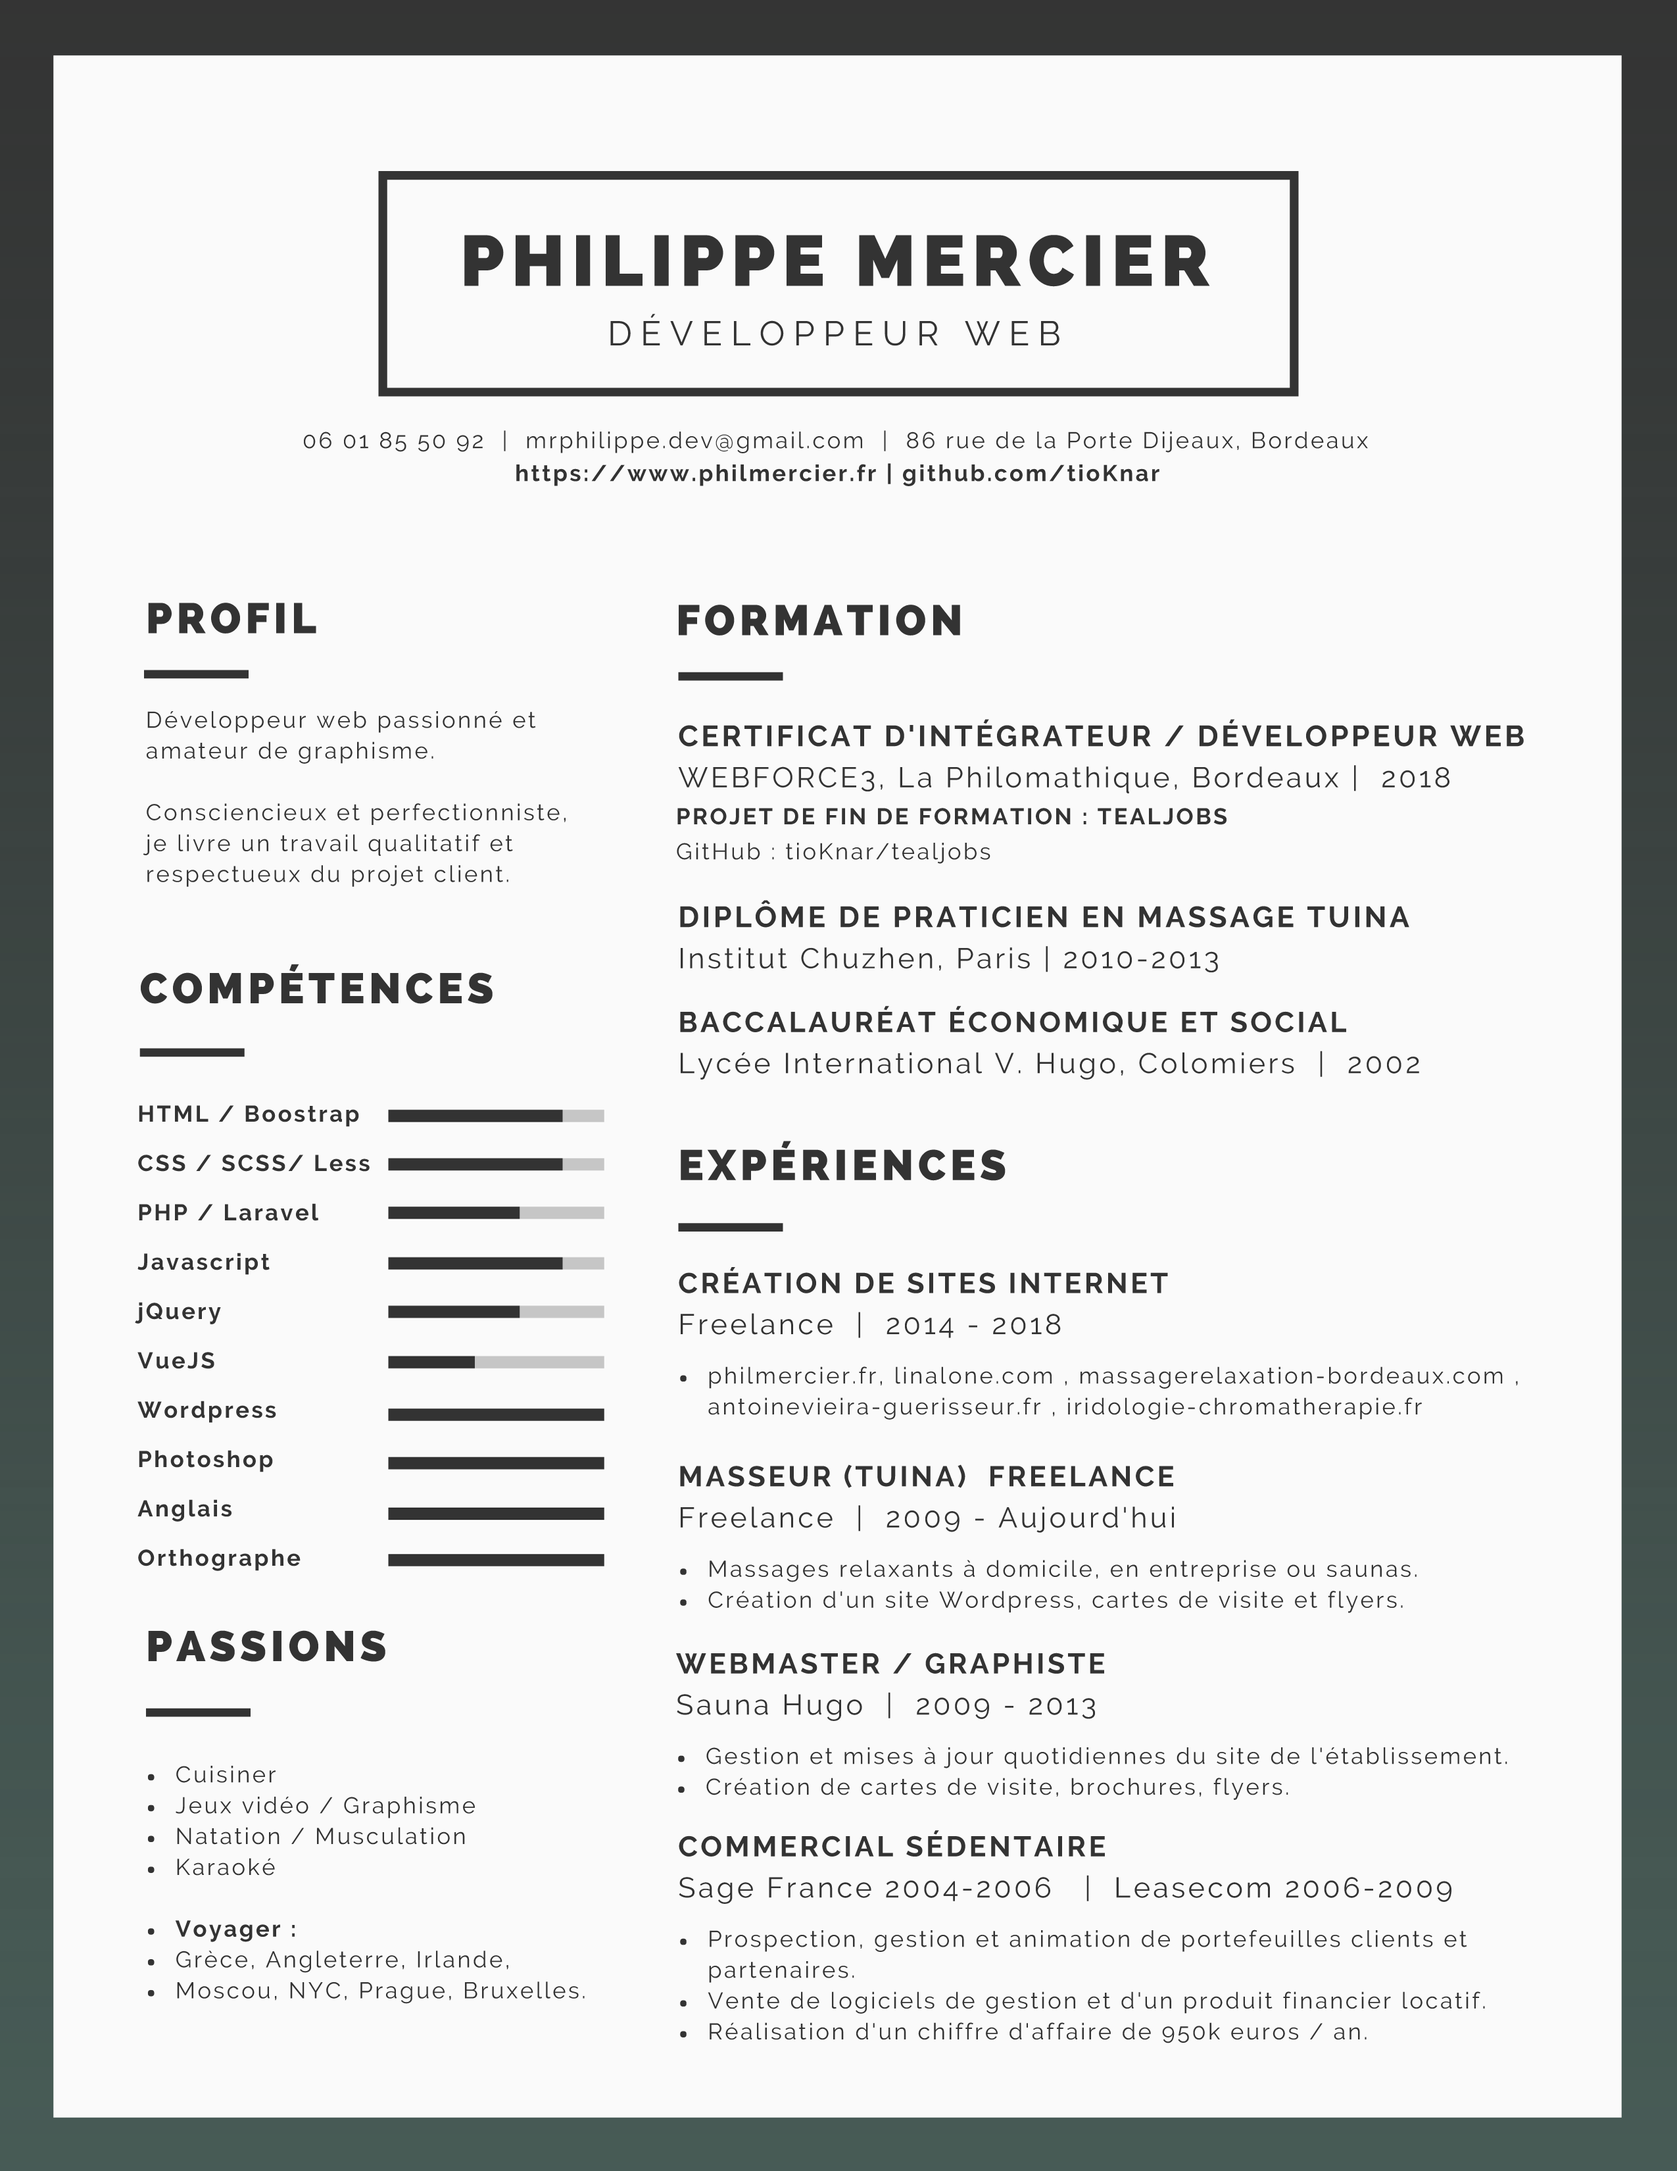
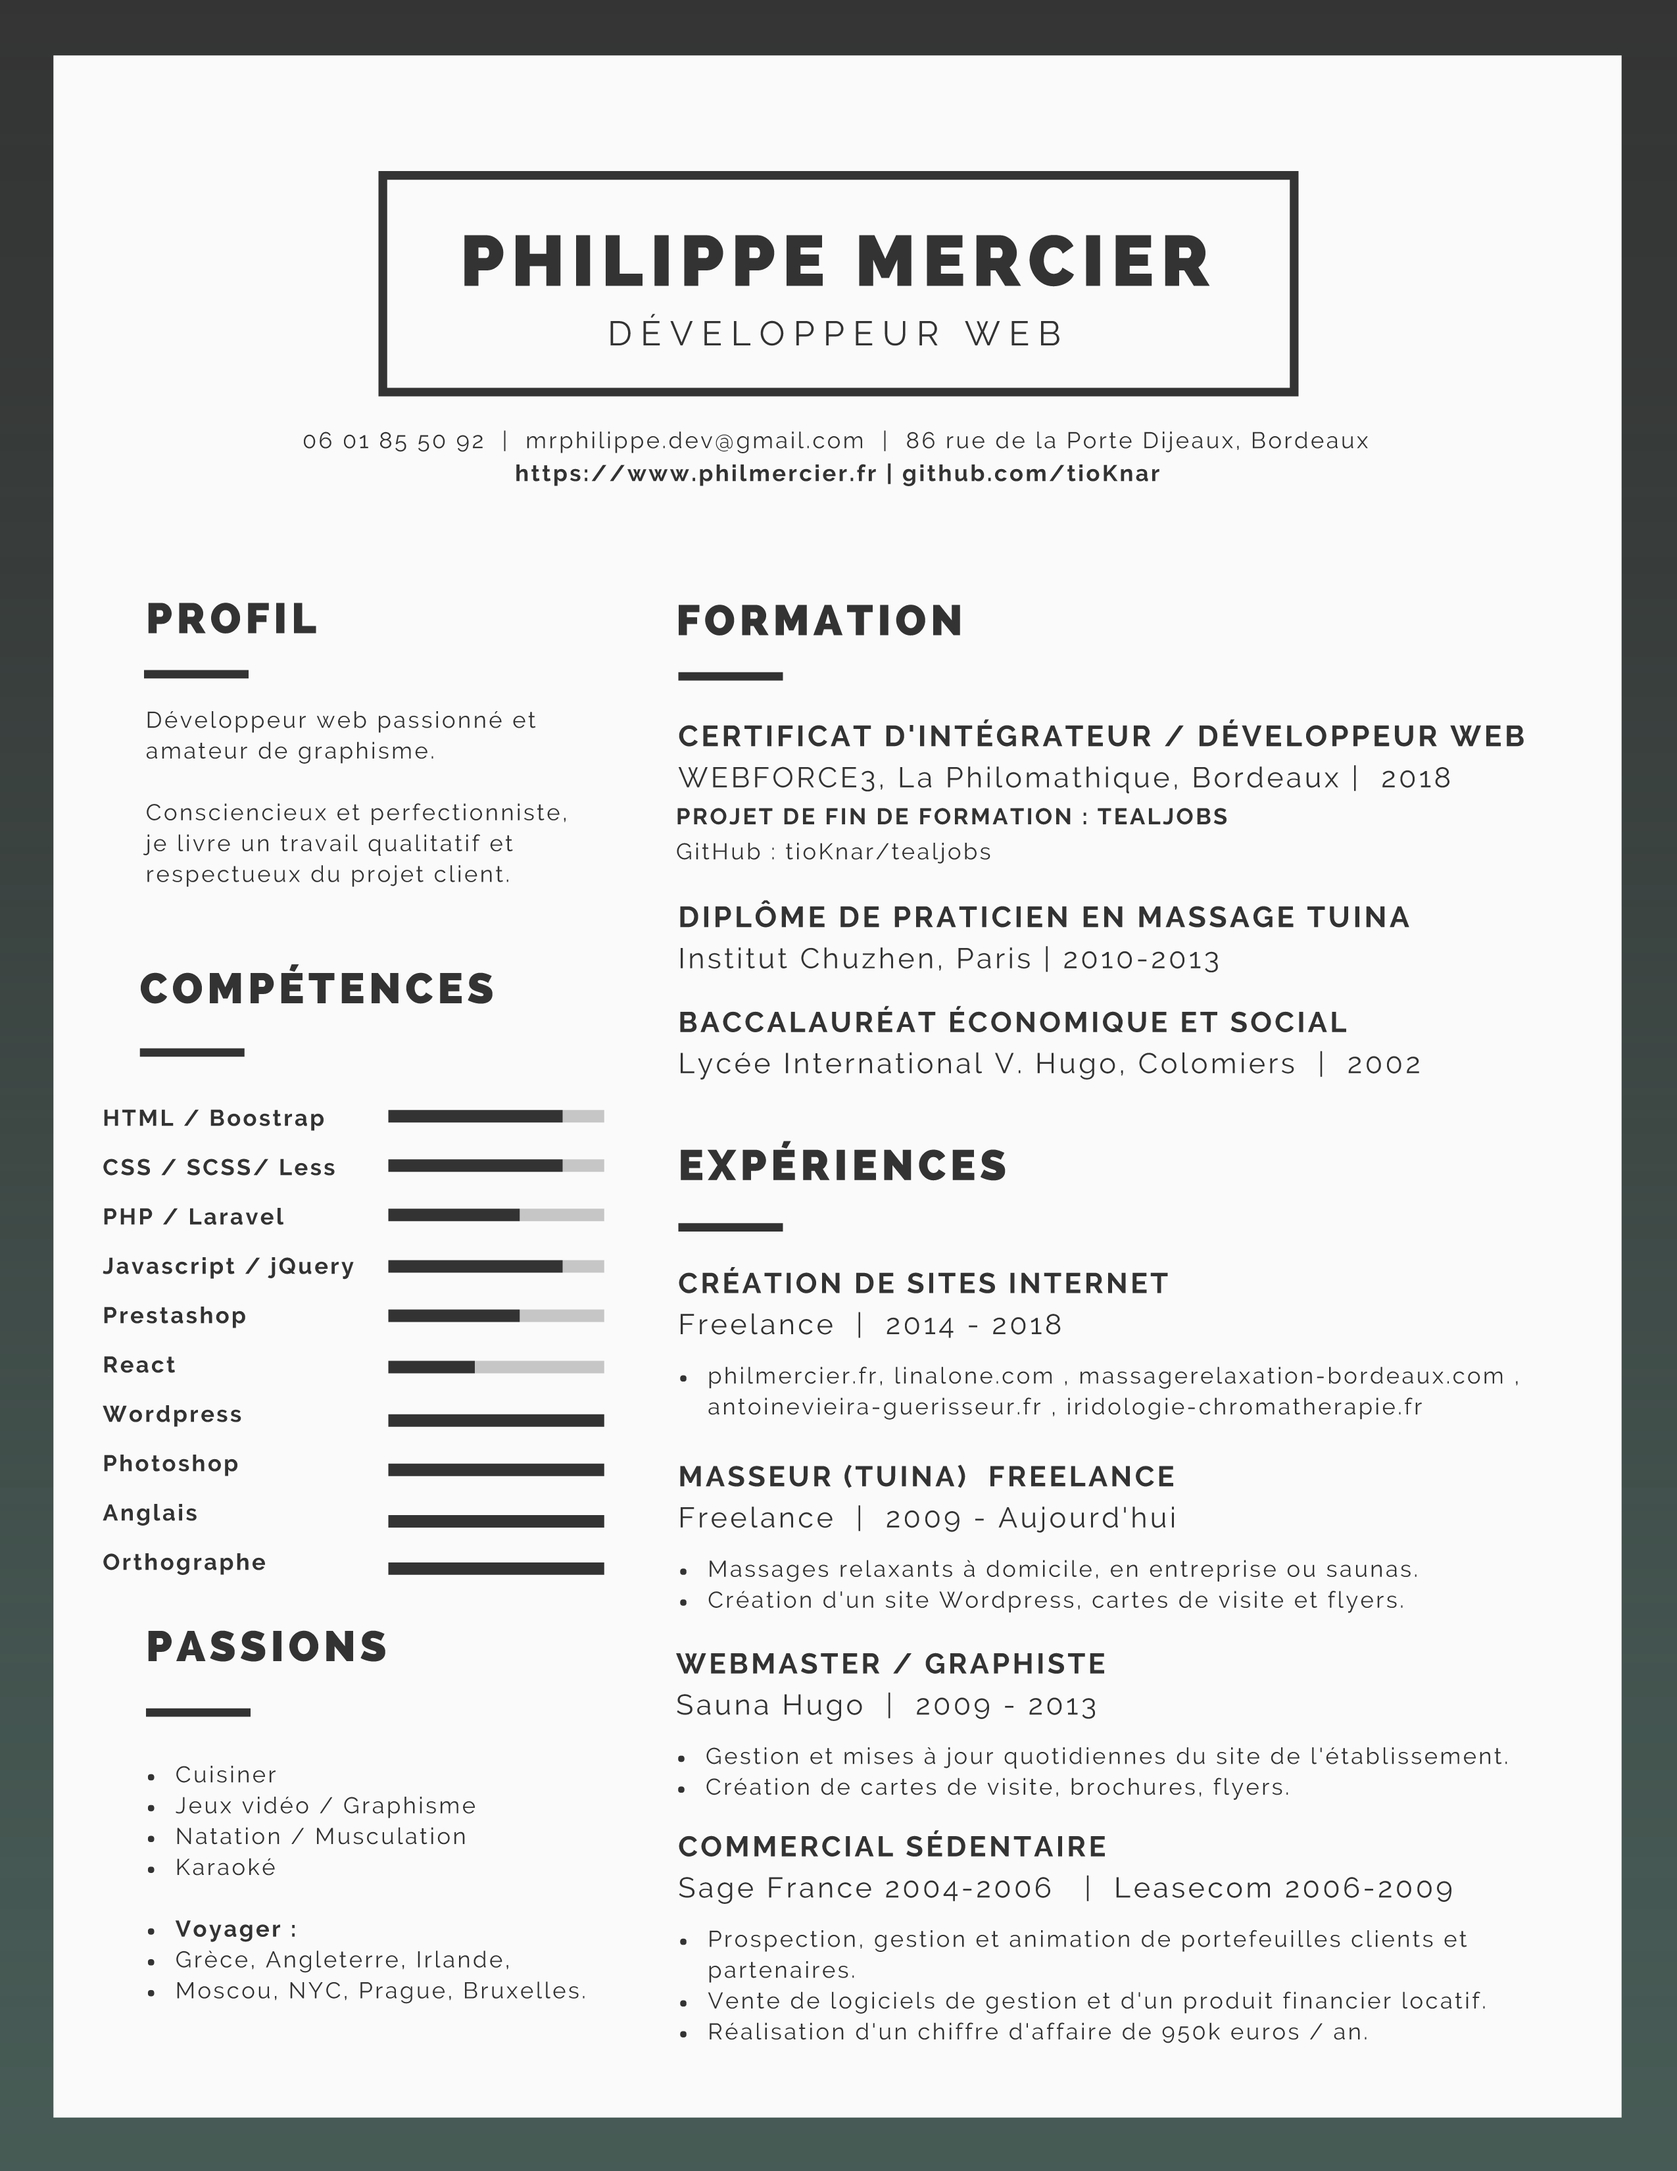
prestashop update

Changed region(s): [[0.2169, 0.5306, 0.3718, 0.7491], [0.062, 0.4994, 0.2169, 0.7491]]

diff --git a/index.html b/index.html
@@ -270,6 +270,7 @@
 									<li>Sublime Text / PHP Storm</li>
 									<li>GitHub</li>
 									<li>Wordpress</li>
+									<li>Prestashop</li>
 									<li>Photoshop</li>
 								</ul>
 							</div>
